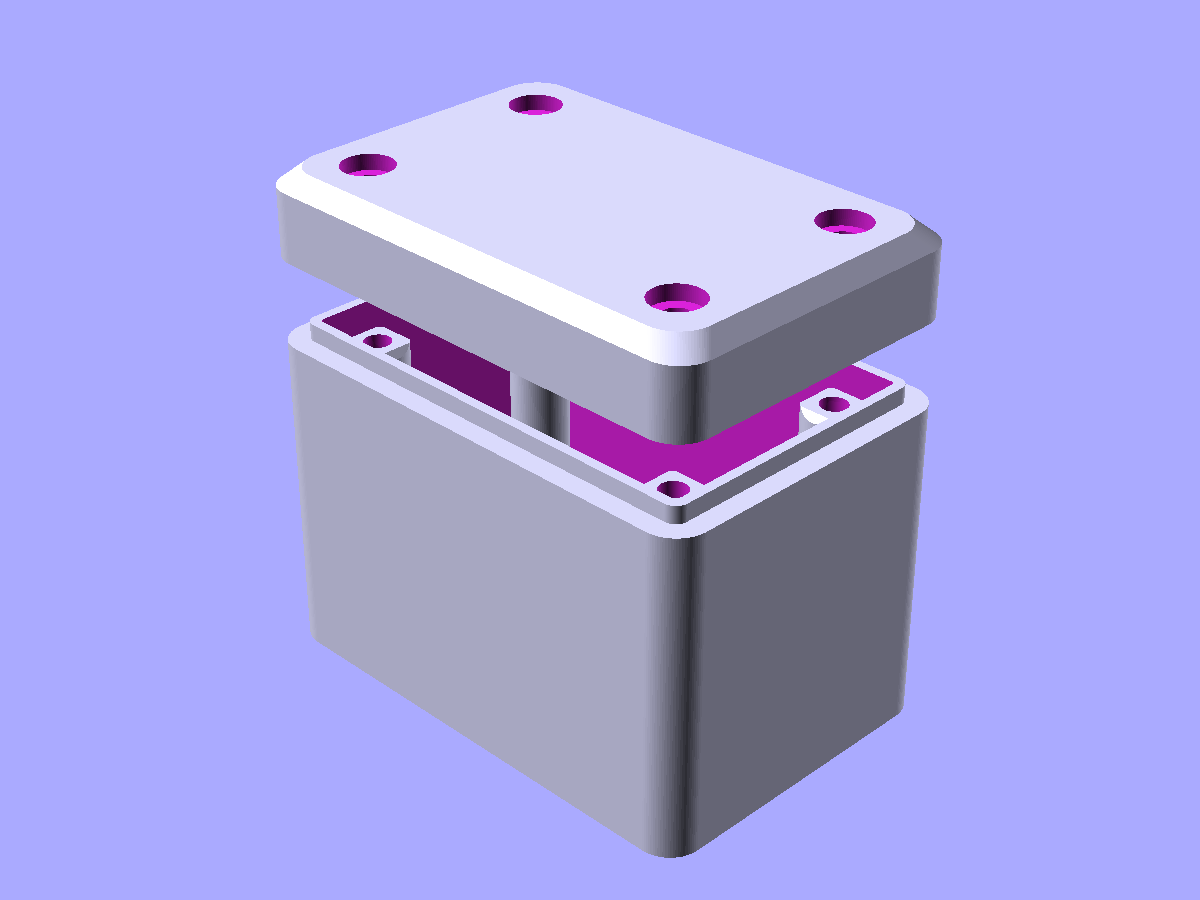
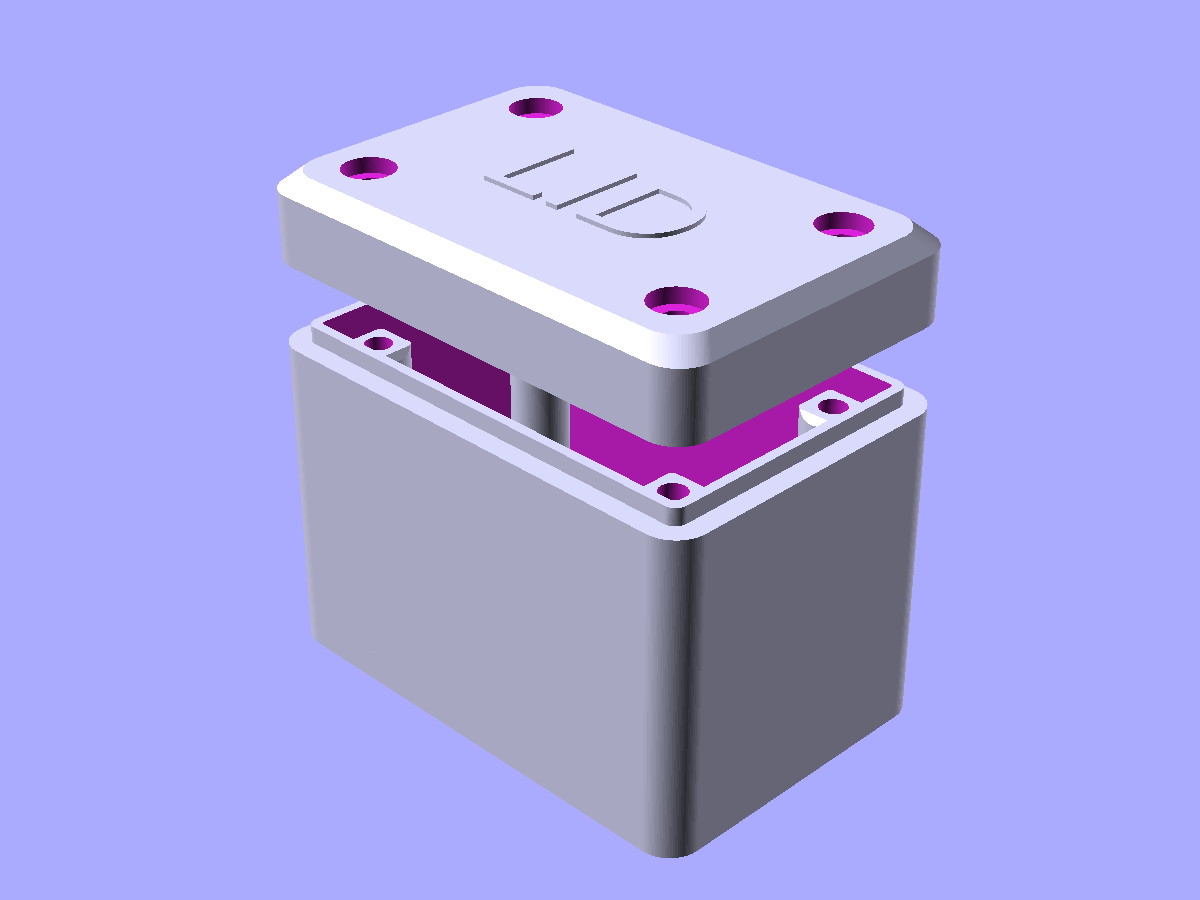
example/box-and-lid: label the lid top with add_text()
Chain `.add_text(label="LID", relief=0.5, on="top", font_size=12)` onto
the Lid's build() return so the lid carries a raised "LID" label
centered on its top face. Update the example index entry, bullet list,
and reference links to mention add_text(). Regenerate the display,
print, and composite images via tools/render_beauty_shots.py.

diff --git a/examples/box-and-lid.py b/examples/box-and-lid.py
@@ -203,7 +203,9 @@ class Lid(Component):
                 .through(outer, axis="z")
             )
 
-        return difference(outer, *cutters)
+        return difference(outer, *cutters).add_text(
+            label="LID", relief=0.5, on="top", font_size=12,
+        )
 
 
 # =============================================================================

diff --git a/examples/README.md b/examples/README.md
@@ -17,7 +17,7 @@ The examples are arranged below from simplest to most complex. Each one introduc
 | Intermediate | [`v-block.py`](v-block.py) | Trigonometry inside `equations` (`sin`, `tan`). Three concrete subclasses, each pinning a different pair of values. |
 | Intermediate | [`wall-hook.py`](wall-hook.py) | Two Components joined with `attach()` at a named anchor. |
 | Intermediate | [`battery-holder.py`](battery-holder.py) | A `namedtuple` spec drives the design. A custom transform. One cradle per battery, via a list built inside `equations`. |
-| Intermediate | [`box-and-lid.py`](box-and-lid.py) | A `Lid` that reads values off a `Box` (the `Box` is a parameter on the `Lid`). `build()` written as a series of `yield` lines. |
+| Intermediate | [`box-and-lid.py`](box-and-lid.py) | A `Lid` that reads values off a `Box` (the `Box` is a parameter on the `Lid`). `build()` written as a series of `yield` lines. `add_text()` labels the lid. |
 | Complex | [`electronics-case.py`](electronics-case.py) | `namedtuple` specs for the PCB and its ports. Three custom transforms. Separate variants for print vs. display. |
 | Complex | [`lens-housing.py`](lens-housing.py) | A helper that turns each lens element into a record with precomputed fields. A conditional that picks between two body shapes. A `halve()` section view in the print variant. |
 
@@ -128,12 +128,13 @@ A snap-on enclosure: a rounded-corner box with chamfered bottom edges and four i
 - A custom transform (`chamfer_top`) uses `bbox()` to size itself to whatever shape it's applied to.
 - The `equations` list combines an equation (`inner_w = outer_w - 2*wall_thk`), bounds on several dimensions, and a comparison between dimensions (`lip_thk < wall_thk`).
 - `.through(parent)` on the lip cutout and the lid recess extends them automatically with no manual EPS.
+- `.add_text()` puts a raised `LID` label centered on the lid's top face — one chained call, no manual extrude or transform.
 
 ![Box and lid](images/BoxAndLid.png)
 
 *Left: display variant, lid floated above the box with the centering lip and pylons visible through the gap. Right: print variant, box and inverted lid laid out on the bed.*
 
-**Reference:** [Param(Component)](../docs/components.md#param-for-non-floats-and-defaults) · [yielding pieces](../docs/components.md#yielding-pieces) · [custom transforms](../docs/custom_transforms.md) · [through()](../docs/auto-eps_fuse_and_through.md) · [bbox()](../docs/introspection.md#bounding-boxes)
+**Reference:** [Param(Component)](../docs/components.md#param-for-non-floats-and-defaults) · [yielding pieces](../docs/components.md#yielding-pieces) · [custom transforms](../docs/custom_transforms.md) · [through()](../docs/auto-eps_fuse_and_through.md) · [bbox()](../docs/introspection.md#bounding-boxes) · [add_text()](../docs/add_text.md)
 
 ---
 
